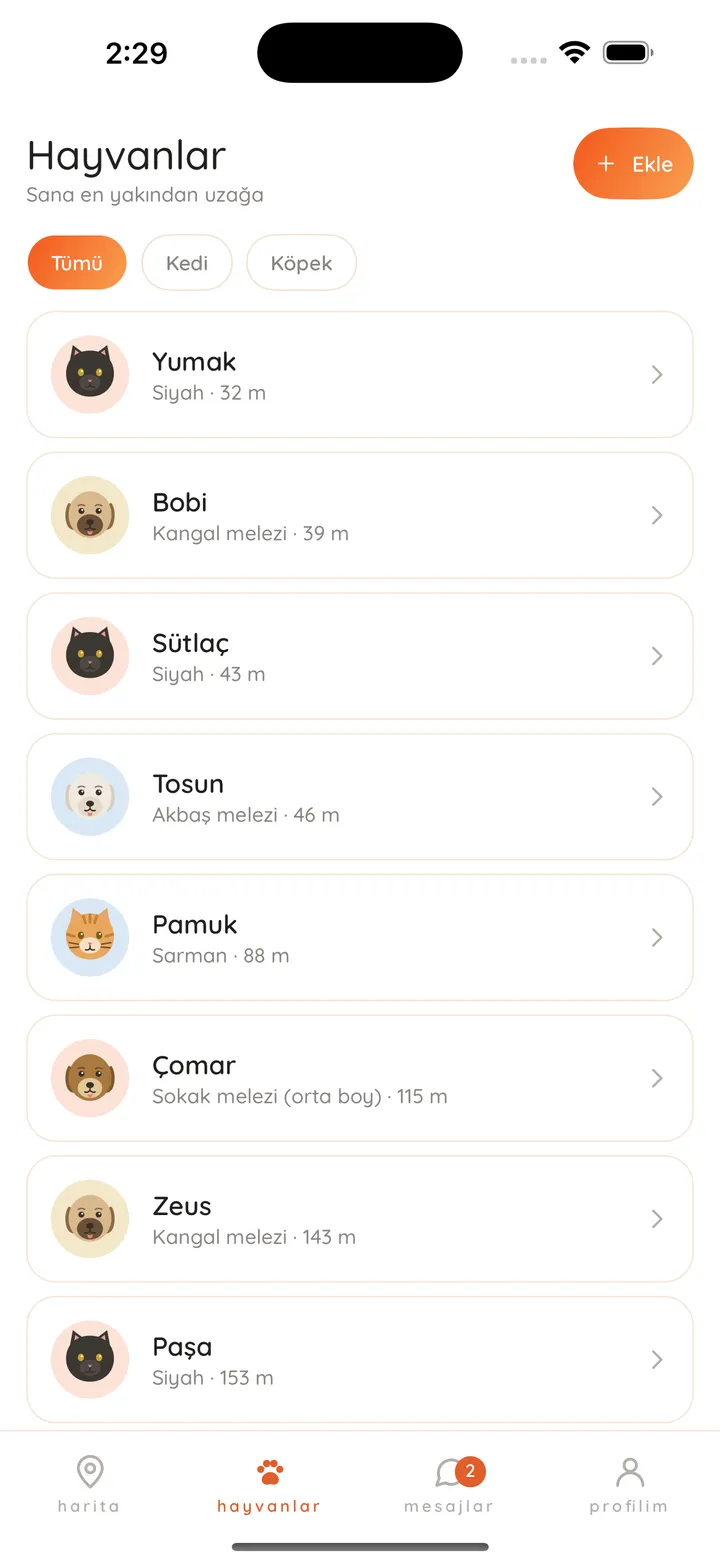
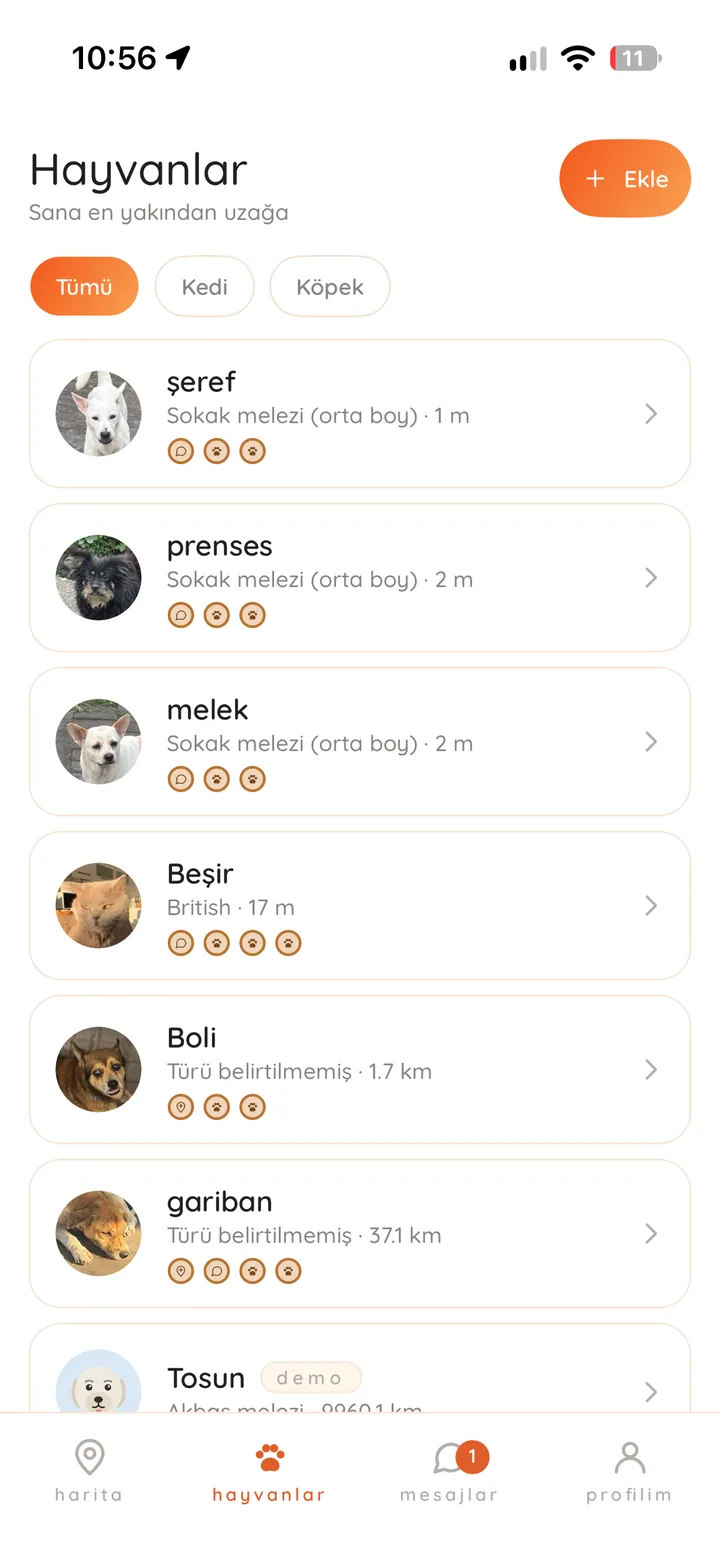
web: the about page shows the owner's own iPhone screenshots
Four of the five screenshots the owner sent replace the App Store set:
map, animals list, an animal's profile, own profile. Captions rewritten
in both languages to match what each one shows. In the animals list the
dog "şerefsiz" reads "şeref", as the owner asked. The chat screenshot is
held back until the other person's consent is settled.

Claude-Session: https://claude.ai/code/session_01BihzmciUxWsk1hRFDqfB9h

diff --git a/web/src/pages/AboutPage.tsx b/web/src/pages/AboutPage.tsx
@@ -3,11 +3,12 @@ import { Link } from 'react-router-dom';
 import { useAuth } from '../auth';
 import { Logo } from '../brand';
 import '../styles/about.css';
-// Downscaled from the App Store set (docs/store/screenshots 01, 02, 05) to
-// 720 px WebP with sharp; 03 is left out for the reason APP-STORE.md gives
-// (its photo strip is placeholder squares).
+// The owner's own iPhone screenshots (2026-09-23), downscaled to 720 px
+// WebP with sharp. In the animals list one dog's name was shortened from
+// "şerefsiz" to "şeref" at the owner's request.
 import mapShot from '../assets/about/map.webp';
 import animalsShot from '../assets/about/animals.webp';
+import animalShot from '../assets/about/animal.webp';
 import profileShot from '../assets/about/profile.webp';
 
 /**
@@ -52,21 +53,29 @@ const COPY = {
       {
         title: 'The map',
         body:
-          'Food and water left around the neighbourhood. Each ring empties as the drop ' +
-          'gets older, so the gaps are easy to spot.',
-        alt: 'The pati map: food and water markers with green rings around a neighbourhood, and animal faces between them.',
+          'Food and water left around the neighbourhood, and the animals who live there. ' +
+          'Each drop sits in a ring that empties as it gets older, and the card below says ' +
+          'what the area is missing.',
+        alt: 'The pati map: a water drop in a green ring with four animal photos around it, and a card saying there is water here but no food.',
       },
       {
         title: 'The animals',
-        body:
-          'Cats and dogs nearby, nearest first. Each one has photos, a health and ' +
-          'vaccination record, and a chat for its carers.',
-        alt: 'The animals list: cats and dogs with their colour or breed and distance, nearest first.',
+        body: 'Every cat and dog nearby, nearest first, with the badges each one has earned.',
+        alt: 'The animals list: dogs and cats with their photos, breed and distance, nearest first, each with a row of badges.',
       },
       {
-        title: 'The carers',
-        body: 'Points, tiered badges and a leaderboard for the neighbours who keep showing up.',
-        alt: 'A profile: points, rank and level, featured badges and the animals this person cares for.',
+        title: 'An animal',
+        body:
+          'Its photos, followers and carers, its badges and where it was last seen. Follow ' +
+          'an animal, or start caring for it.',
+        alt: "A dog's profile: two photos, one follower and one carer, two badges, the follow and care buttons, and a map of where it was last seen.",
+      },
+      {
+        title: 'You',
+        body:
+          'Points, rank and level, tiered badges for food, water and new animals, and the ' +
+          'animals you look after.',
+        alt: 'A profile: points, rank and level, three bronze badges and the animals this person cares for.',
       },
     ],
     privacy: 'Privacy notice (Turkish)',
@@ -88,21 +97,28 @@ const COPY = {
       {
         title: 'Harita',
         body:
-          'Mahallede bırakılan mama ve su. Her halka kayıt eskidikçe boşalır; boş kalan ' +
-          'yerler hemen göze çarpar.',
-        alt: 'pati haritası: bir mahallede yeşil halkalı mama ve su işaretleri, aralarında hayvan yüzleri.',
+          'Mahallede bırakılan mama ve su, ve orada yaşayan hayvanlar. Her kayıt, eskidikçe ' +
+          'boşalan bir halkanın içinde; alttaki kart bölgede neyin eksik olduğunu söyler.',
+        alt: 'pati haritası: yeşil halkalı bir su işareti, çevresinde dört hayvan fotoğrafı ve bölgede su olduğunu ama mama olmadığını söyleyen bir kart.',
       },
       {
         title: 'Hayvanlar',
-        body:
-          'Yakındaki kedi ve köpekler, en yakından uzağa. Her birinin fotoğrafları, sağlık ve ' +
-          'aşı kaydı, bakıcılarının sohbeti var.',
-        alt: 'Hayvan listesi: renk ya da ırk ve mesafeyle kedi ve köpekler, en yakından uzağa.',
+        body: 'Yakındaki her kedi ve köpek, en yakından uzağa; her birinin kazandığı rozetlerle.',
+        alt: 'Hayvan listesi: fotoğrafı, ırkı ve mesafesiyle köpekler ve kediler, en yakından uzağa, her birinin altında rozetleri.',
       },
       {
-        title: 'Bakım verenler',
-        body: 'Düzenli gelen komşular için puan, basamaklı rozetler ve liderlik tablosu.',
-        alt: 'Bir profil: puan, sıra ve seviye, öne çıkan rozetler ve bakım verilen hayvanlar.',
+        title: 'Bir hayvan',
+        body:
+          'Fotoğrafları, takipçileri ve bakıcıları, rozetleri ve en son görüldüğü yer. ' +
+          'Bir hayvanı takip et ya da ona bakmaya başla.',
+        alt: 'Bir köpek profili: iki fotoğraf, bir takipçi ve bir bakıcı, iki rozet, takip ve bakım düğmeleri ve en son görüldüğü yerin haritası.',
+      },
+      {
+        title: 'Sen',
+        body:
+          'Puanın, sıran ve seviyen; mama, su ve yeni hayvanlar için basamaklı rozetler; ' +
+          'baktığın hayvanlar.',
+        alt: 'Bir profil: puan, sıra ve seviye, üç bronz rozet ve bakım verilen hayvanlar.',
       },
     ],
     privacy: 'Aydınlatma Metni',
@@ -110,11 +126,11 @@ const COPY = {
   },
 } as const;
 
-const SHOTS = [mapShot, animalsShot, profileShot];
+const SHOTS = [mapShot, animalsShot, animalShot, profileShot];
 
 /**
- * The public introduction at pati-app.com: what pati is, three screens from
- * the app, and where to get it. A signed-out stranger meets it at `/`
+ * The public introduction at pati-app.com: what pati is, screens from the
+ * app, and where to get it. A signed-out stranger meets it at `/`
  * (frontDoor.ts decides who counts), and it stays reachable at `/hakkinda`
  * for everyone. Web only: the native app is what this page points to, so it
  * has no mobile twin.
@@ -186,14 +202,14 @@ export default function AboutPage() {
 
         <section className="about-shots" aria-labelledby="about-shots-heading">
           <h2 id="about-shots-heading">{t.shotsHeading}</h2>
-          <ul>
+          <ul style={{ gridTemplateColumns: `repeat(${SHOTS.length}, minmax(0, 1fr))` }}>
             {t.shots.map((shot, i) => (
               <li key={shot.title}>
                 <img
                   src={SHOTS[i]}
                   alt={shot.alt}
                   width={720}
-                  height={1564}
+                  height={1558}
                   loading={i === 0 ? 'eager' : 'lazy'}
                 />
                 <h3>{shot.title}</h3>

diff --git a/web/src/styles/about.css b/web/src/styles/about.css
@@ -131,9 +131,10 @@
   list-style: none;
   margin: 0;
   padding: 0;
+  /* One row on a wide screen; the column count is the number of shots
+     (set inline by the page). */
   display: grid;
-  grid-template-columns: repeat(3, minmax(0, 1fr));
-  gap: 32px;
+  gap: 28px;
 }
 
 .about-shots li {
@@ -146,9 +147,9 @@
 .about-shots img {
   display: block;
   width: 100%;
-  max-width: 280px;
+  max-width: 250px;
   height: auto;
-  border-radius: 28px;
+  border-radius: 26px;
   border: 1px solid var(--border-strong);
   box-shadow: var(--shadow-float);
   background: var(--cream);
@@ -196,7 +197,7 @@
   margin: 10px 0 0;
 }
 
-/* A phone: the three screens become a row that swipes sideways, each one
+/* A phone: the screens become a row that swipes sideways, each one
    most of the width with the next peeking in, rather than three full-height
    frames stacked into a very long page. */
 @media (max-width: 719px) {

diff --git a/docs/NOTES.md b/docs/NOTES.md
@@ -6168,9 +6168,15 @@ directly: what pati is, three screenshots, the App Store link once approved.
   the review flagged it and the owner chose to keep both (2026-09-23), and
   CLAUDE.md now names the exception. The link-preview text in `index.html`
   is English for the same audience.
-- **Screenshots** are the App Store set's 01, 02 and 05, downscaled to 720 px
-  WebP (`web/src/assets/about/`, 33–95 KB each). 03 is left out for the
-  reason APP-STORE.md gives. Retaking the store set does not update these.
+- **Screenshots** were first the App Store set's 01, 02 and 05; the owner
+  then supplied his own iPhone screenshots (2026-09-23) and they replaced
+  them: map, animals list, an animal's profile, own profile, as 720 px WebP
+  in `web/src/assets/about/` (45–63 KB each). In the animals list one dog's
+  name, "şerefsiz", was painted down to "şeref" at his request (a white box
+  over the last three letters, nothing else touched). A fifth, a chat, was
+  held back: it shows another user's name, photo and messages, and this
+  session's safety check refused to publish it without her consent being
+  settled. The grid's column count follows the number of shots.
 - **App Store link:** `APP_STORE_URL` at the top of `AboutPage.tsx` is null
   until Apple approves; the page says "coming to the App Store" instead of
   linking. The day the listing is live, that constant is the whole change.
